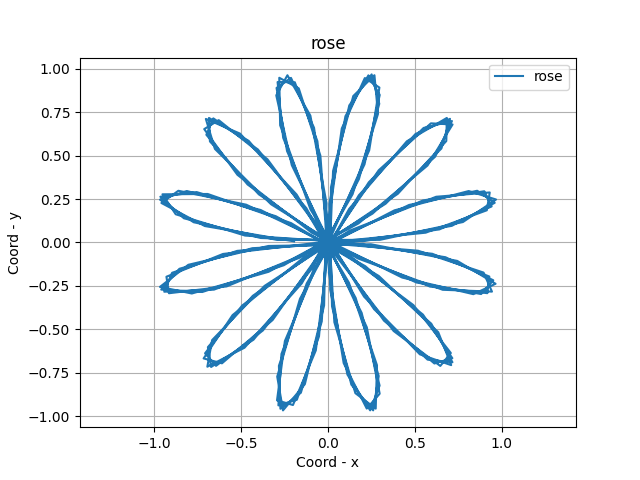
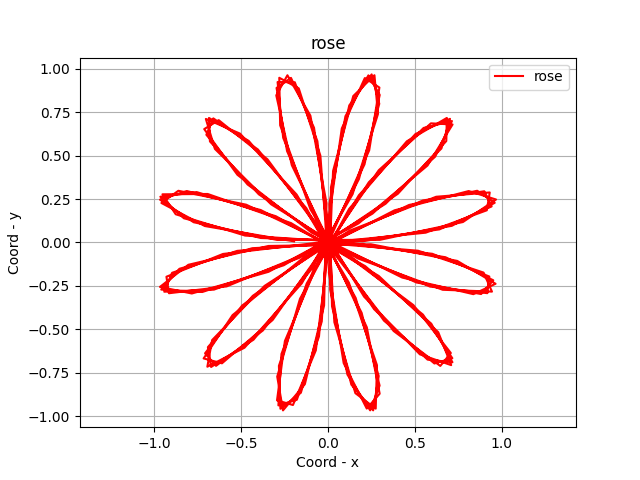
laba6

diff --git a/task_log_4.py b/task_log_4.py
@@ -7,7 +7,7 @@ def log(b):
     x = r * np.cos(phi)
     y = r * np.sin(phi)
 
-    plt.plot(x, y, label="Логарифмическая спираль")
+    plt.plot(x, y, color='c', label="Логарифмическая спираль")
     plt.xlabel("Coord - x")
     plt.ylabel("Coord - y")
     plt.legend()

diff --git a/task_2.py b/task_2.py
@@ -13,7 +13,7 @@ def hyper(minimum, maximum, N):
     x = np.linspace(minimum, 0, N+1)
     x = np.delete(x, -1)
     y = 20/x
-    plt.plot(x, y, color='r')
+    plt.plot(x, y, color='m')
 
     plt.xlabel("Coord - x")
     plt.ylabel("Coord - y")

diff --git a/task_rose_4.py b/task_rose_4.py
@@ -7,7 +7,7 @@ def spiral(k):
     x = r * np.cos(phi)
     y = r * np.sin(phi)
 
-    plt.plot(x, y, label="rose")
+    plt.plot(x, y, color='r',label="rose")
     plt.xlabel("Coord - x")
     plt.ylabel("Coord - y")
     plt.title("rose")
